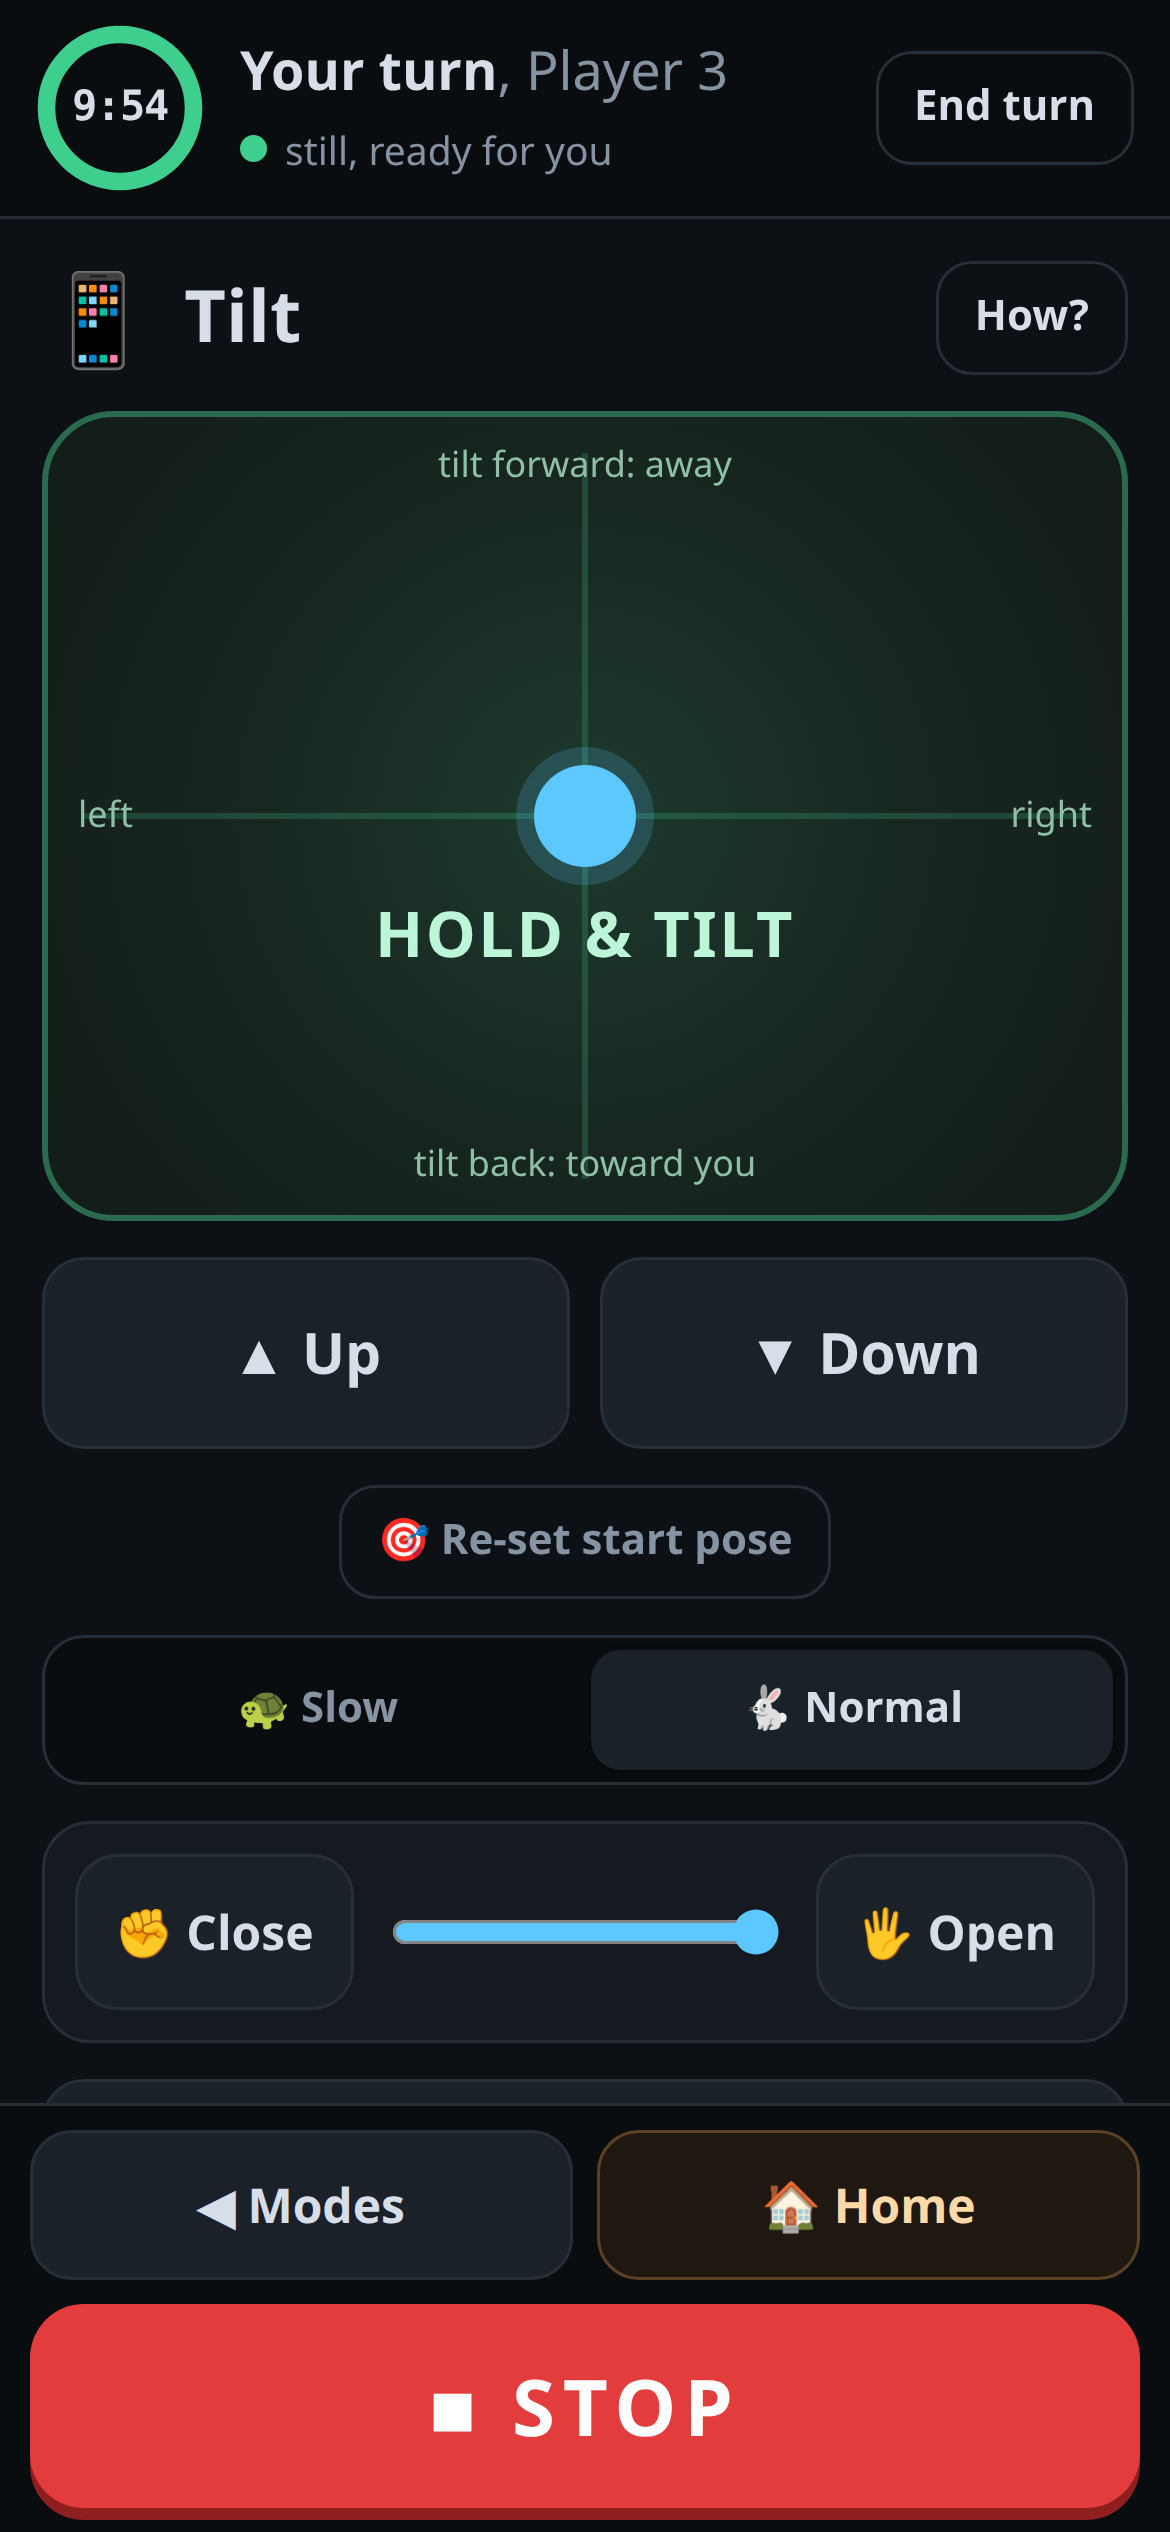
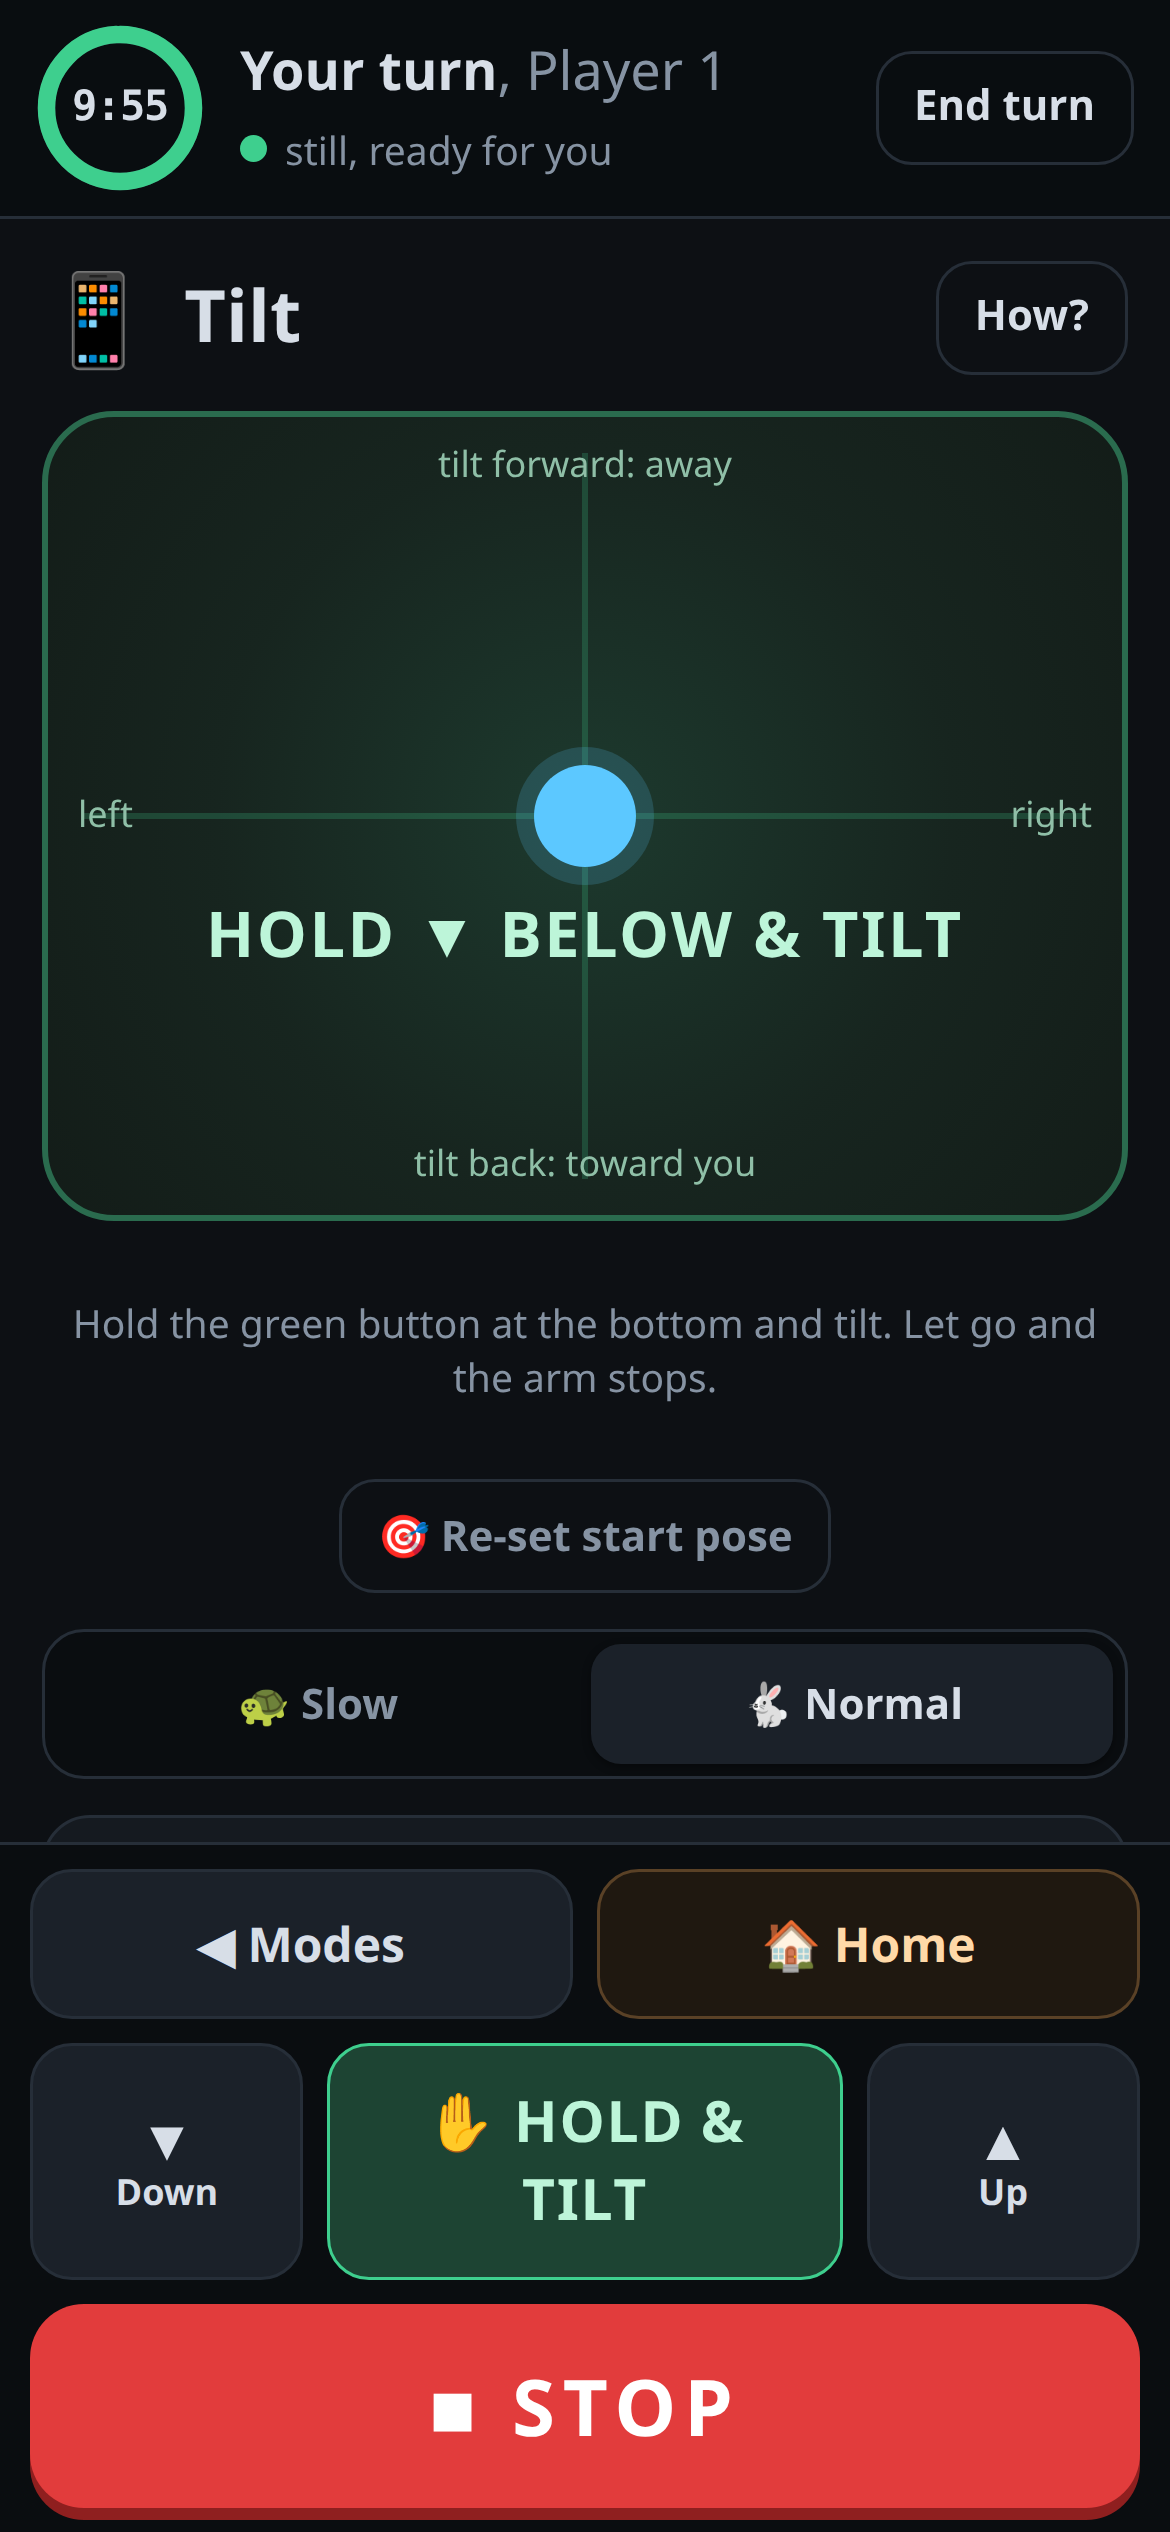
openplay phone: Tilt hold + Up/Down move into the dock right above STOP (thumb reach)

diff --git a/openplay/static/play.js b/openplay/static/play.js
@@ -352,6 +352,7 @@ function sendReady(why) {
 function openMode(id, opts = {}) {
   const m = modeById(id); if (!m) return;
   S.mode = id;
+  document.body.dataset.mode = id;
   const hero = $('gsHero'); hero.dataset.hue = m.hue || 'blue';
   $('gsEmoji').textContent = m.emoji; $('gsTitle').textContent = m.title; $('gsPitch').textContent = m.pitch;
   const steps = $('gsSteps'); steps.replaceChildren();
@@ -464,7 +465,7 @@ function releaseAll() {
   ctl.tilt = false; ctl.tiltArmed = false; ctl.z = 0; ctl.jogOn.clear(); ctl.jog.fill(0);
   for (const s of Object.values(ctl.sticks)) { s.on = false; s.x = s.y = 0; s.reset && s.reset(); }
   for (const j of jogEls) j.reset();
-  for (const id of ['tiltPad', 'zUp', 'zDown']) $(id).classList.remove('on');
+  for (const id of ['tiltPad', 'tiltHold', 'zUp', 'zDown']) $(id).classList.remove('on');
   $('padGate').hidden = true;
   stopStream(); drawDot();
 }
@@ -566,12 +567,21 @@ function drawDot() {
 $('sensorsBtn').addEventListener('click', enableSensors);
 $('noSensorBtn').addEventListener('click', () => openMode('sticks'));
 $('resetPoseBtn').addEventListener('click', () => { S.neutral = null; openMode('tilt', { ready: false }); });
-holdable($('tiltPad'), () => {
+// Hold to drive: the dock button (by the thumb, above STOP) or the pad itself.
+const tiltDown = (src) => () => {
   // the start pose stays the saved one: a press never re-zeroes
   ctl.tilt = true; ctl.tiltArmed = offStart() <= RETURN_TOL;
+  $('tiltPad').classList.add('on'); $('tiltHold').classList.add('on');
   if (!ctl.tiltArmed) buzz([20, 30, 20]);
   checkTiltGate(); startStream();
-}, () => { ctl.tilt = false; ctl.tiltArmed = false; $('padGate').hidden = true; drawDot(); maybeStop(); });
+};
+const tiltUp = () => {
+  ctl.tilt = false; ctl.tiltArmed = false; $('padGate').hidden = true;
+  $('tiltPad').classList.remove('on'); $('tiltHold').classList.remove('on');
+  drawDot(); maybeStop();
+};
+holdable($('tiltHold'), tiltDown('dock'), tiltUp);
+holdable($('tiltPad'), tiltDown('pad'), tiltUp);
 holdable($('zUp'), () => { ctl.z = 1; startStream(); }, () => { ctl.z = 0; maybeStop(); });
 holdable($('zDown'), () => { ctl.z = -1; startStream(); }, () => { ctl.z = 0; maybeStop(); });
 

diff --git a/openplay/static/play.html b/openplay/static/play.html
@@ -186,16 +186,13 @@
           <span class="pad-lbl t">tilt forward: away</span>
           <span class="pad-lbl l">left</span><span class="pad-lbl r">right</span>
           <span class="pad-lbl b">tilt back: toward you</span>
-          <div class="pad-cta" id="padCta">Hold &amp; tilt</div>
+          <div class="pad-cta" id="padCta">Hold ▼ below &amp; tilt</div>
           <div class="pad-gate" id="padGate" hidden>
             <div class="pg-big">↩ Back to your start pose</div>
             <div class="pg-sub" id="padGateSub">The arm waits until you're there</div>
           </div>
         </div>
-        <div class="row">
-          <button class="btn hold" id="zUp">▲ Up</button>
-          <button class="btn hold" id="zDown">▼ Down</button>
-        </div>
+        <p class="small muted center">Hold the green button at the bottom and tilt. Let go and the arm stops.</p>
         <button class="btn tiny ghost center-btn" id="resetPoseBtn">🎯 Re-set start pose</button>
       </div>
 
@@ -292,6 +289,12 @@
     <div class="dock-row">
       <button class="btn dockbtn" id="modesBtn">◀ Modes</button>
       <button class="btn dockbtn" id="homeBtn">🏠 Home</button>
+    </div>
+    <!-- Tilt: the hold button lives here, by the thumb, right above STOP -->
+    <div class="dock-row dock-tilt" id="dockTilt">
+      <button class="btn hold dz" id="zDown">▼<small>Down</small></button>
+      <button class="btn hold dock-hold" id="tiltHold">✋ HOLD &amp; TILT</button>
+      <button class="btn hold dz" id="zUp">▲<small>Up</small></button>
     </div>
     <button class="stop" id="stopBtn">■ STOP</button>
   </footer>

diff --git a/openplay/static/play.css b/openplay/static/play.css
@@ -170,6 +170,15 @@ body:not(.in-turn) .toasts { top: calc(12px + env(safe-area-inset-top)); }
 .dock > * { width: 100%; max-width: 560px; margin-left: auto; margin-right: auto; }
 .dock-row { display: flex; gap: 8px; }
 .dockbtn { flex: 1; min-height: 50px; font-size: 16px; border-radius: 14px; }
+/* Tilt's hold button sits in the dock, by the thumb, right above STOP (only on the Tilt play view) */
+.dock-tilt { display: none; }
+body[data-view="play"][data-mode="tilt"] .dock-tilt { display: flex; }
+body[data-view="play"][data-mode="tilt"] { --dock-h: calc(226px + env(safe-area-inset-bottom)); }
+.dock-hold { flex: 2.4; min-height: 72px; font-size: 19px; font-weight: 900; letter-spacing: .03em;
+  background: #1d4433; border-color: var(--ok); color: #bdf5d9; }
+.dock-hold.on { background: var(--ok); color: #06281a; }
+.dock-tilt .dz { flex: 1; min-height: 72px; font-size: 22px; display: flex; flex-direction: column; align-items: center; justify-content: center; line-height: 1; gap: 2px; }
+.dock-tilt .dz small { font-size: 12px; font-weight: 600; }
 #homeBtn { color: #ffd9a8; border-color: #5a4126; background: #1f1810; }
 /* STOP: the biggest thing on the page, at the bottom where the thumb already is */
 .stop {
